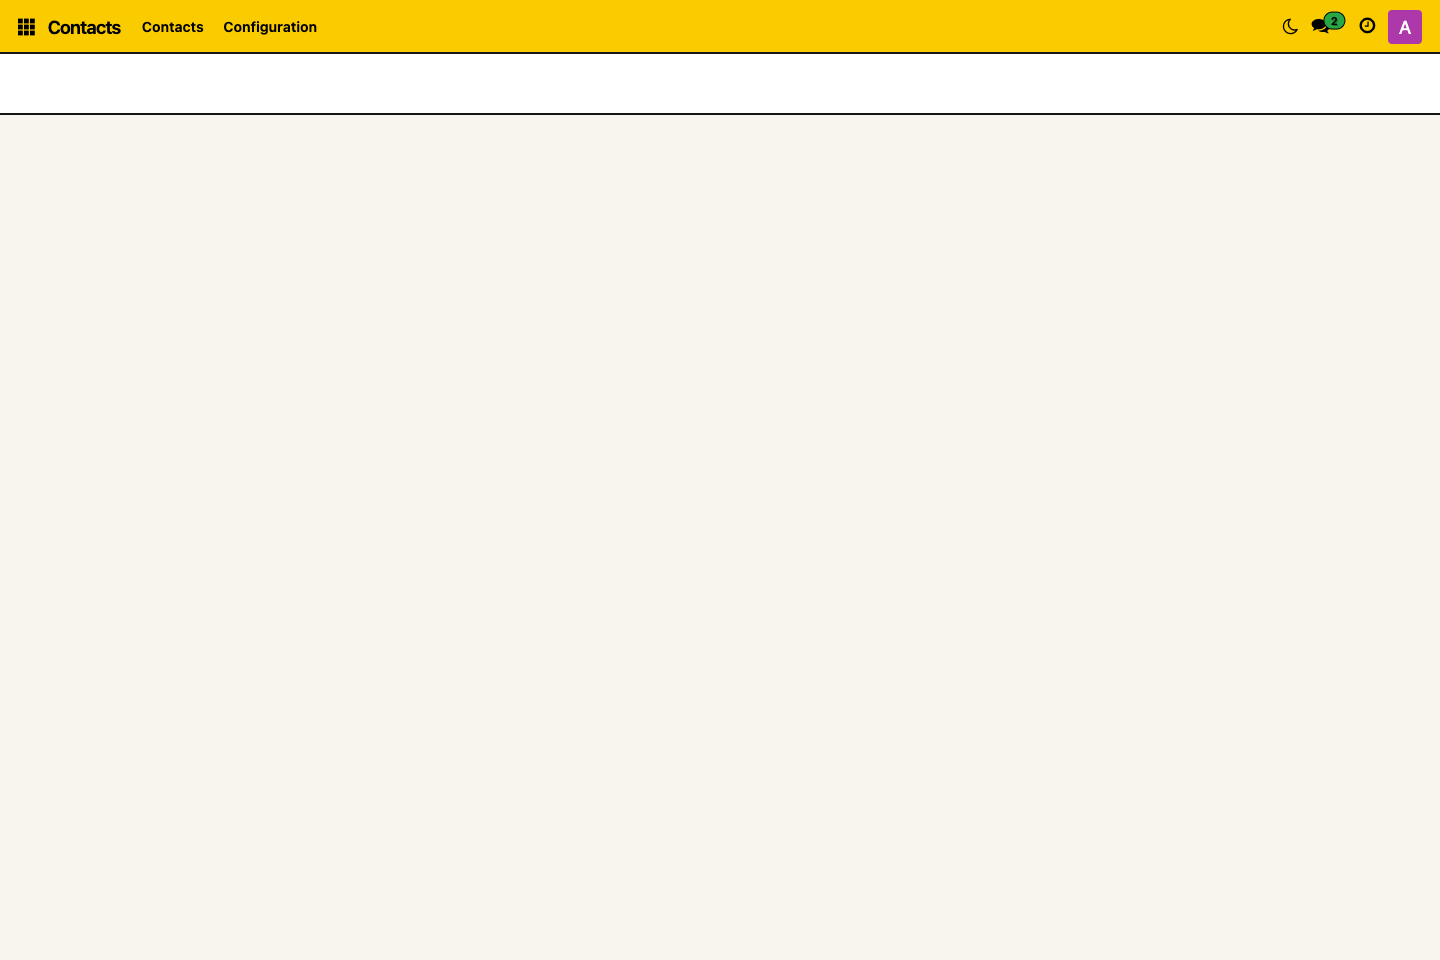
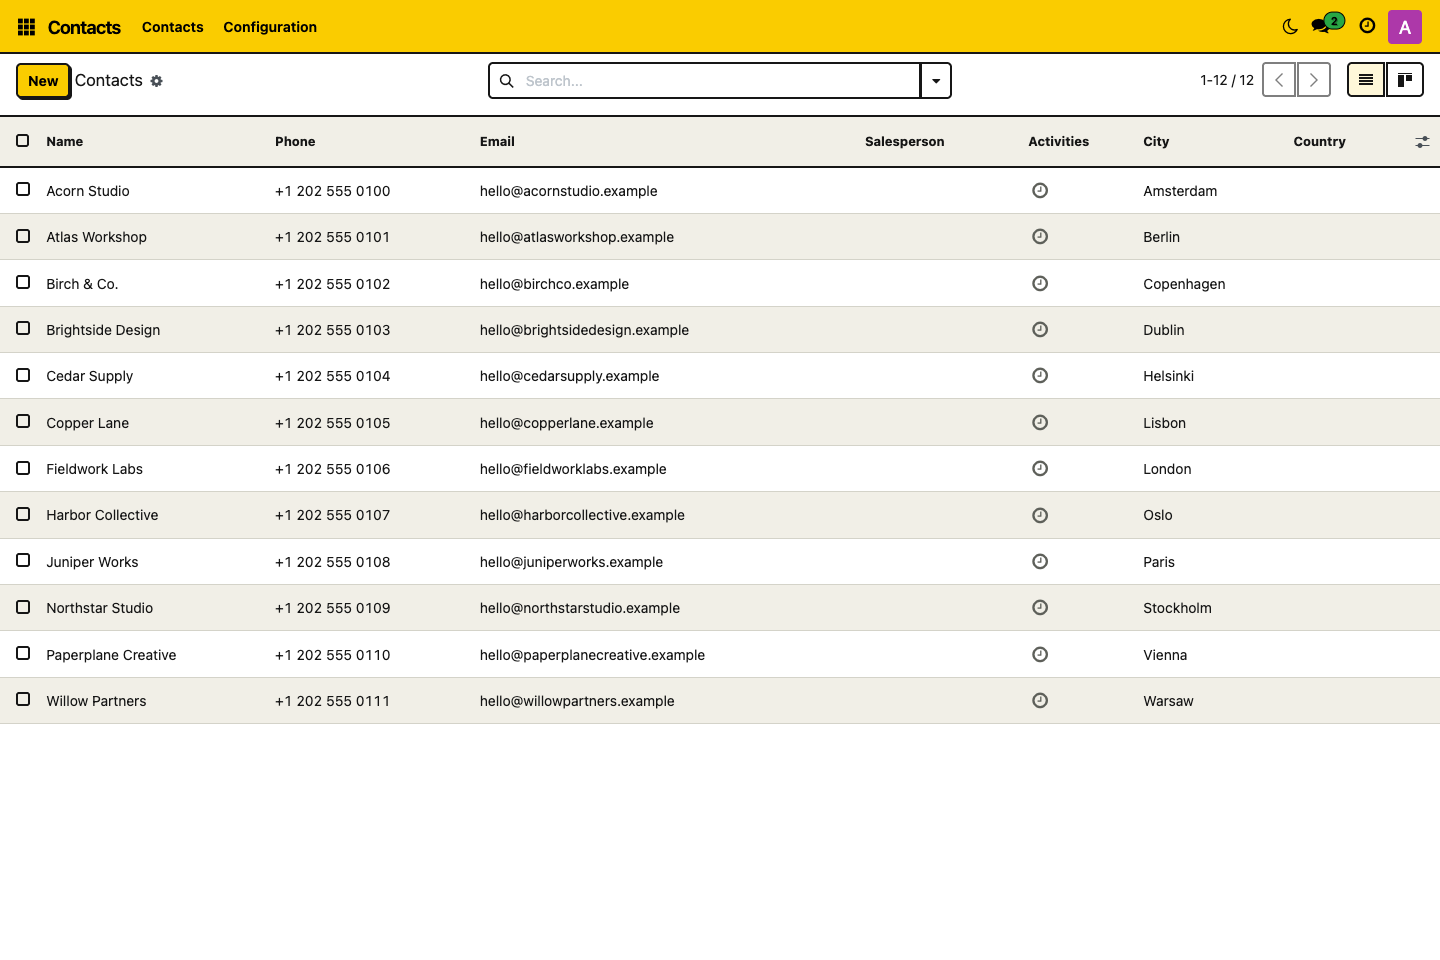
Add RivetFox branding to Odoo 17.0 marketplace artwork

diff --git a/tools/marketplace/motion.html b/tools/marketplace/motion.html
@@ -1,23 +1,25 @@
 <!doctype html>
 <html lang="en">
 <meta charset="utf-8"><title>Neo Brutal — actual screen comparisons</title>
+<link rel="stylesheet" href="../branding/brand.css">
 <style>
-*{box-sizing:border-box}body{margin:0;font-family:Arial,Helvetica,sans-serif;color:#161616;background:#f7f5ee}.canvas{position:relative;width:1120px;height:760px;border:3px solid #161616;overflow:hidden}.eyebrow{font:700 14px monospace;letter-spacing:1.5px}.title{font-size:42px;letter-spacing:-1.5px;font-weight:800;line-height:1.05;margin:13px 0}.header{position:absolute;top:26px;left:34px;right:34px;display:flex;justify-content:space-between;align-items:center}.modes{display:flex;border:2px solid #161616;box-shadow:4px 4px #161616;background:white}.modes span{font:700 14px monospace;padding:12px 19px}.modes .active{background:#facc00}.screen{border:3px solid #161616;box-shadow:8px 8px #161616;overflow:hidden;position:absolute;background:white}.screenbar{height:27px;background:#fff;border-bottom:2px solid #161616;font:700 10px monospace;padding:6px 12px;letter-spacing:.7px}.screenbody{position:relative;overflow:hidden;height:100%}.screen img{position:absolute;top:0;left:0;width:100%;display:block}.footer{position:absolute;bottom:23px;left:34px;right:34px;font:700 12px monospace;display:flex;justify-content:space-between}.daynight .screen{left:34px;top:120px;width:1044px;height:580px}.daynight .title{font-size:34px}.accent{--accent:#facc00}.accent .header{top:33px;display:block}.accent .title{font-size:45px}.accent .screen{left:330px;top:194px;width:739px;height:431px}.preset-list{position:absolute;top:210px;left:34px;display:grid;gap:9px}.preset{display:flex;align-items:center;width:247px;height:45px;border:2px solid transparent;font-size:18px;font-weight:700;gap:14px;padding:5px 10px}.preset i{display:block;width:32px;height:28px;border:2px solid #161616;background:var(--swatch)}.preset.active{border-color:#161616;background:white;box-shadow:4px 4px #161616}.preset.active:after{content:'✓';margin-left:auto}.number{position:absolute;right:43px;top:46px;font:700 15px monospace}.accent .screenbar{background:var(--accent)}
+*{box-sizing:border-box}body{margin:0;font-family:Arial,Helvetica,sans-serif;color:#161616;background:#f7f5ee}.canvas{position:relative;width:1120px;height:760px;border:3px solid #161616;overflow:hidden}.eyebrow{font:700 14px monospace;letter-spacing:1.5px}.title{font-size:42px;letter-spacing:-1.5px;font-weight:800;line-height:1.05;margin:13px 0}.header{position:absolute;top:26px;left:34px;right:34px;display:flex;justify-content:space-between;align-items:center}.modes{display:flex;border:2px solid #161616;box-shadow:4px 4px #161616;background:white}.modes span{font:700 14px monospace;padding:12px 19px}.modes .active{background:#facc00}.screen{border:3px solid #161616;box-shadow:8px 8px #161616;overflow:hidden;position:absolute;background:white}.screenbar{height:27px;background:#fff;border-bottom:2px solid #161616;font:700 10px monospace;padding:6px 12px;letter-spacing:.7px}.screenbody{position:relative;overflow:hidden;height:100%}.screen img{position:absolute;top:0;left:0;width:100%;display:block}.footer{align-items:center;position:absolute;bottom:10px;left:34px;right:34px;font:700 12px monospace;display:flex;justify-content:space-between}.daynight .screen{left:34px;top:120px;width:1044px;height:580px}.daynight .title{font-size:34px}.accent{--accent:#facc00}.accent .header{top:33px;display:block}.accent .title{font-size:45px}.accent .screen{left:330px;top:194px;width:739px;height:431px}.preset-list{position:absolute;top:210px;left:34px;display:grid;gap:9px}.preset{display:flex;align-items:center;width:247px;height:45px;border:2px solid transparent;font-size:18px;font-weight:700;gap:14px;padding:5px 10px}.preset i{display:block;width:32px;height:28px;border:2px solid #161616;background:var(--swatch)}.preset.active{border-color:#161616;background:white;box-shadow:4px 4px #161616}.preset.active:after{content:'✓';margin-left:auto}.number{position:absolute;right:43px;top:46px;font:700 15px monospace}.accent .screenbar{background:var(--accent)}
 </style>
 <div id="daynight" class="canvas daynight">
  <div class="header"><div><div class="eyebrow">PERSONAL DAY + NIGHT</div><h1 class="title">Same workspace. Your choice.</h1></div><div class="modes"><span id="day-label" class="active">DAY</span><span id="night-label">NIGHT</span></div></div>
  <div class="screen"><div class="screenbar">NEO BRUTAL / CONTACTS</div><div class="screenbody"><img id="day-screen" src="../../neobrutalism_theme/static/description/backend-list.png" alt="Contacts in day mode"><img id="night-screen" src="../../neobrutalism_theme/static/description/night-mode.png" alt="The same Contacts in night mode" style="clip-path:inset(0 100% 0 0)"></div></div>
- <div class="footer"><span>ONE PERSONAL SWITCH IN THE TOP BAR</span><span>REAL ODOO 17 COMMUNITY SCREENS</span></div>
+ <div class="footer"><div class="rf-lockup rf-mini"><img src="../branding/rivetfox-mark.svg" alt="RivetFox fox"><span class="rf-wordmark">rivetfox<span class="rf-period">.</span></span></div><span>REAL ODOO <span data-odoo-version>17</span> COMMUNITY SCREENS</span></div>
 </div>
 <div id="accents" class="canvas accent" style="display:none">
  <div class="header"><div class="eyebrow">ADMIN-MANAGED PRESETS</div><h1 class="title">One theme. Seven accents.</h1><p style="font-size:20px;margin:14px 0 0;color:#50534d">Matched highlights. Readable labels. A shared identity.</p></div><div class="number" id="counter">01 / 07</div>
  <div class="preset-list" id="presets"></div>
  <div class="screen"><div class="screenbar" id="accent-title">YELLOW / DAY MODE</div><div class="screenbody"><img id="accent-screen" src="screens/preset-yellow.png" alt="Actual Odoo accent preset"></div></div>
  <p style="position:absolute;left:333px;top:640px;font-size:16px;line-height:1.5;margin:0">Navigation, buttons and active tabs.<br>Business status colors stay independent.</p>
- <div class="footer"><span>SHARED COLORS. PERSONAL NIGHT MODE.</span><span>REAL ODOO 17 COMMUNITY SCREENS</span></div>
+ <div class="footer"><div class="rf-lockup rf-mini"><img src="../branding/rivetfox-mark.svg" alt="RivetFox fox"><span class="rf-wordmark">rivetfox<span class="rf-period">.</span></span></div><span>REAL ODOO <span data-odoo-version>17</span> COMMUNITY SCREENS</span></div>
 </div>
 <script src="title-motion.js"></script>
 <script>
+document.querySelectorAll('[data-odoo-version]').forEach(el=>el.textContent=new URLSearchParams(location.search).get('odoo')||'17');
 const presets=[['yellow','#facc00'],['blue','#5294ff'],['green','#5ad9aa'],['purple','#b59aff'],['pink','#ff91bc'],['orange','#ffb15c'],['red','#ff7474']];
 const accentMode=new URLSearchParams(location.search).get('type')==='accents';
 document.getElementById('daynight').style.display=accentMode?'none':'block';document.getElementById('accents').style.display=accentMode?'block':'none';

diff --git a/tools/cover.html b/tools/cover.html
@@ -2,10 +2,11 @@
 <html lang="en">
 <meta charset="utf-8">
 <title>Neo Brutal — animated marketplace cover</title>
+<link rel="stylesheet" href="branding/brand.css">
 <style>
 *{box-sizing:border-box}body{margin:0;font-family:Arial,Helvetica,sans-serif}
 .cover{--paper:#f7f5ee;--ink:#161616;--accent:#facc00;width:1120px;height:560px;overflow:hidden;position:relative;background:var(--paper);color:var(--ink);border:3px solid var(--ink)}
-.top{position:absolute;inset:28px 30px auto;display:flex;justify-content:space-between;align-items:center;font-size:14px;font-weight:800;letter-spacing:1px}
+.top{position:absolute;inset:26px 36px auto;display:flex;justify-content:space-between;align-items:center;font-size:14px;font-weight:800;letter-spacing:1px}
 .brand{display:flex;gap:12px;align-items:center}.mark{width:32px;height:32px;background:var(--ink);color:var(--paper);display:grid;place-items:center;font-size:22px;letter-spacing:-2px}.edition{border:2px solid var(--ink);padding:8px 12px;background:var(--paper);box-shadow:3px 3px var(--ink);font-size:13px;letter-spacing:.5px}
 .copy{position:absolute;left:38px;top:113px;z-index:2;width:420px}h1{font-size:100px;line-height:.91;letter-spacing:-7px;margin:0 0 27px;font-weight:900}h1 span{display:inline-block;background:var(--accent);color:#161616;border:3px solid #161616;box-shadow:6px 6px var(--ink);padding:0 10px 8px 4px;margin-top:10px;font-size:89px;letter-spacing:-6px}
 .tagline{font-size:26px;line-height:1.2;font-weight:700;margin:0 0 24px;letter-spacing:-.7px}.features{font:700 13px monospace;letter-spacing:.1px;display:flex;gap:8px}.features span{border:2px solid var(--ink);padding:8px 10px}
@@ -13,7 +14,7 @@
 .mode{position:absolute;right:25px;top:428px;background:var(--accent);color:#161616;border:3px solid #161616;box-shadow:5px 5px var(--ink);padding:12px 18px;font:800 20px monospace;transform:rotate(2deg);z-index:3}
 .bottom{position:absolute;bottom:25px;left:38px;right:32px;display:flex;align-items:center;justify-content:space-between}.free{font:700 12px monospace;letter-spacing:.7px}.swatches{display:flex;gap:7px}.swatches i{display:block;width:28px;height:22px;background:var(--color);border:2px solid #161616;box-shadow:2px 2px var(--ink)}
 .thumbnail{width:1000px;height:1210px}
-.thumbnail .top{inset:35px 42px auto;font-size:20px}.thumbnail .mark{width:40px;height:40px;font-size:27px}.thumbnail .edition{font-size:16px}
+.thumbnail .top{inset:34px 42px auto;font-size:20px}.thumbnail .mark{width:40px;height:40px;font-size:27px}.thumbnail .edition{font-size:16px}
 .thumbnail .copy{left:42px;top:120px;width:910px}.thumbnail h1{font-size:124px}.thumbnail h1 span{font-size:110px}
 .thumbnail .tagline{position:absolute;left:530px;top:104px;width:340px;font-size:31px}.thumbnail .features{font-size:20px;gap:12px}
 .thumbnail .stage{left:42px;right:auto;top:466px;width:900px;height:594px;transform:rotate(-1deg)}.thumbnail .chrome{height:35px;font-size:13px}.thumbnail .viewport{height:555px}
@@ -21,15 +22,16 @@
 .thumbnail .bottom{left:42px;right:42px;bottom:47px}.thumbnail .free{font-size:15px;letter-spacing:.3px}.thumbnail .swatches{gap:9px}.thumbnail .swatches i{width:34px;height:29px}
 </style>
 <div class="cover" id="cover">
- <div class="top"><div class="brand"><span class="mark">N.</span>RIVETFOX <span style="font-weight:400;letter-spacing:0">/ BACKEND THEME</span></div><div class="edition">ODOO 17 COMMUNITY</div></div>
+ <div class="top"><div class="rf-lockup"><img src="branding/rivetfox-mark.svg" alt="RivetFox fox"><span class="rf-wordmark">rivetfox<span class="rf-period">.</span></span></div><div class="edition">ODOO <span data-odoo-version>17</span> COMMUNITY</div></div>
  <div class="copy"><h1>NEO<br><span>BRUTAL.</span></h1><p class="tagline">Your Odoo.<br>With character.</p><div class="features"><span>7 ACCENTS</span><span>DAY + NIGHT</span></div></div>
- <div class="stage"><div class="chrome"><i class="dot"></i><i class="dot"></i><i class="dot"></i><b>YOUR EVERYDAY ODOO</b></div><div class="viewport"><img id="old" src="../neobrutalism_theme/static/description/backend-list.png" alt="Actual Odoo 17 Contacts list"><img id="next" class="view-new" src="../neobrutalism_theme/static/description/backend-list.png" alt="Alternate theme appearance"></div></div>
+ <div class="stage"><div class="chrome"><i class="dot"></i><i class="dot"></i><i class="dot"></i><b>YOUR EVERYDAY ODOO</b></div><div class="viewport"><img id="old" src="../neobrutalism_theme/static/description/backend-list.png" alt="Actual Odoo Contacts list"><img id="next" class="view-new" src="../neobrutalism_theme/static/description/backend-list.png" alt="Alternate theme appearance"></div></div>
  <div class="mode" id="mode">01 / DAY MODE</div>
  <div class="bottom"><div class="free">FREE + OPEN SOURCE / LGPL-3</div><div class="swatches"><i style="--color:#facc00"></i><i style="--color:#5294ff"></i><i style="--color:#5ad9aa"></i><i style="--color:#b59aff"></i><i style="--color:#ff91bc"></i><i style="--color:#ffb15c"></i><i style="--color:#ff7474"></i></div></div>
 </div>
 <script src="marketplace/title-motion.js"></script>
 <script>
 document.getElementById('cover').classList.toggle('thumbnail',new URLSearchParams(location.search).get('format')==='thumbnail');
+document.querySelectorAll('[data-odoo-version]').forEach(el=>el.textContent=new URLSearchParams(location.search).get('odoo')||'17');
 const scenes=[
  {src:'../neobrutalism_theme/static/description/backend-list.png',label:'01 / DAY MODE',paper:'#f7f5ee',ink:'#161616',accent:'#facc00'},
  {src:'../neobrutalism_theme/static/description/night-mode.png',label:'02 / NIGHT MODE',paper:'#202322',ink:'#f7f5ee',accent:'#facc00'},

diff --git a/tools/branding/brand.css b/tools/branding/brand.css
@@ -1,0 +1,9 @@
+/* Publisher identity shared by all RivetFox marketplace compositions. */
+@font-face{font-family:"RivetFox Brand";font-style:normal;font-weight:300 700;font-display:block;src:url("space-grotesk-latin.woff2") format("woff2")}
+.rf-lockup{--rf-logo:42px;--rf-type:30px;display:inline-flex;align-items:center;gap:9px;padding:7px 15px 7px 8px;border:1px solid #25252020;border-radius:13px;background:#fff8ed;color:#252520;line-height:1;white-space:nowrap}
+.rf-lockup img{display:block;flex:none;width:var(--rf-logo);height:var(--rf-logo)}
+.rf-wordmark{font-family:"RivetFox Brand",Arial,sans-serif;font-weight:700;font-size:var(--rf-type);letter-spacing:-1.6px}
+.rf-period{color:#da542a}
+.thumbnail .rf-lockup,.portrait .rf-lockup{--rf-logo:60px;--rf-type:42px;gap:12px;padding:8px 21px 8px 10px;border-radius:17px}
+.rf-mini{--rf-logo:28px;--rf-type:21px;padding:4px 10px 4px 5px;gap:6px;border-radius:10px}
+.rf-mini .rf-wordmark{letter-spacing:-1px}

diff --git a/neobrutalism_theme/__manifest__.py b/neobrutalism_theme/__manifest__.py
@@ -1,7 +1,7 @@
 {
     "name": "Neo Brutal Backend Theme",
     "summary": "Odoo 17 Community backend theme with dark mode and seven accent colors",
-    "version": "17.0.1.0.2",
+    "version": "17.0.1.0.3",
     "category": "Themes/Backend",
     "author": "RivetFox",
     "website": "https://rivetfox.pro",

diff --git a/PUBLISHING.md b/PUBLISHING.md
@@ -10,10 +10,10 @@ Use these repository URLs in the publisher account's [Submit your Apps and Theme
 
 | Odoo version | Git branch | Repository registration URL |
 | --- | --- | --- |
-| 16 | `16.0` | `ssh://git@github.com/Welgum/odoo-neobrutalism-theme#16.0` |
-| 17 | `17.0` | `ssh://git@github.com/Welgum/odoo-neobrutalism-theme#17.0` |
-| 18 | `18.0` | `ssh://git@github.com/Welgum/odoo-neobrutalism-theme#18.0` |
-| 19 | `19.0` | `ssh://git@github.com/Welgum/odoo-neobrutalism-theme#19.0` |
+| 16 | `16.0` | `ssh://git@github.com/Welgum/odoo-neobrutalism-theme.git#16.0` |
+| 17 | `17.0` | `ssh://git@github.com/Welgum/odoo-neobrutalism-theme.git#17.0` |
+| 18 | `18.0` | `ssh://git@github.com/Welgum/odoo-neobrutalism-theme.git#18.0` |
+| 19 | `19.0` | `ssh://git@github.com/Welgum/odoo-neobrutalism-theme.git#19.0` |
 
 The SSH URL plus `#branch` format follows the [Odoo Apps FAQ](https://apps.odoo.com/apps/faq). The repository is public. If it becomes private, authorize Odoo's scanner as described in the current FAQ before rescanning. `main` follows Odoo 19; use the four version branches for publication.
 
@@ -78,3 +78,11 @@ Scenes play at three times the original speed, rendered at 30 fps with a subtle 
 For updates, increase the version on the applicable branch, rerun validation, commit and push the branch, then rescan it in Odoo Apps. A local ZIP does not register or publish a marketplace listing.
 
 Official references checked for this preparation: [Vendor guidelines](https://apps.odoo.com/apps/vendor-guidelines), [Odoo Apps FAQ](https://apps.odoo.com/apps/faq), and [repository submission](https://apps.odoo.com/apps/upload).
+
+## Shared RivetFox identity — 2026-09-22
+
+`tools/branding/` contains the publisher’s website fox mark, a shared wordmark treatment and the locally bundled Space Grotesk font with its SIL OFL notice. These are renderer inputs only. All four promotional GIFs bake in the publisher identity; the listing stays static and local-only. Backend styles and theme-specific app icons are unchanged.
+
+Use the checkout’s own source screenshots. `render_marketplace.cjs` passes the manifest’s Odoo version to every composition; do not relabel newer-version screenshots for an older branch. Run `node tools/check_marketplace.cjs` after rendering and building to decode every GIF frame, verify dimensions/timing, exercise scene/loop rendering, check brand/font loading without network requests and inspect both preview widths.
+
+After pushing this artwork release, rescan each registered version branch in Odoo Apps to refresh the marketplace assets. A Git push alone does not confirm that the marketplace has imported the new images.

diff --git a/neobrutalism_theme/VALIDATION.md b/neobrutalism_theme/VALIDATION.md
@@ -1,4 +1,18 @@
-# Validation — 17.0.1.0.2
+# Validation — 17.0.1.0.3
+
+## RivetFox marketplace artwork — 2026-09-22
+
+This release updates promotional assets, rendering tools and package metadata. The runtime implementation and Odoo-version adapters are unchanged; the application tests documented below describe the preceding functional release and were not rerun for this artwork update.
+
+- All four GIFs decode completely with FFmpeg. Checked 1120 × 560 covers, 1000 × 1210 portrait cards and 1120 × 760 feature animations; encoded durations remain 3.00, 3.00, 2.67 and 4.67 seconds.
+- Playwright checks cover every scene, the composition at loop reset (allowing only tiny antialiased-edge rounding differences), correct Odoo 17 labels, and locally decoded RivetFox artwork and fonts. Renderer pages make no external requests and report no JavaScript errors.
+- Listing and thumbnail previews load all images without horizontal overflow at 1440px and 390px. The shared theme-family preview was also reviewed at catalog-card size.
+- The release builder validates manifest/image selection, static listing markup, asset paths, Python/XML syntax and ZIP integrity. Two builds of the final source produce identical SHA-256 checksums.
+- The shared fox and local render-font license are retained under `tools/branding/`. Only raster promotional assets enter the add-on; no additional runtime font, script or dependency is introduced.
+
+Visual review found that the old `backend-list.png` was an incomplete capture. It is now a byte-for-byte copy of this Odoo 17 branch’s existing, complete `tools/marketplace/screens/preset-yellow.png`; no screenshot from another Odoo version is substituted. Cover, portrait and day/night assets were regenerated. The capture helper now waits for list rows again after mode changes.
+
+Reproduce with `node tools/render_marketplace.cjs`, `python3 tools/build_release.py`, then `node tools/check_marketplace.cjs`. Logs and review PNGs are under ignored `dist/`. These checks validate the repository artwork. The registered Odoo Apps branch must be rescanned after the Git push; marketplace scan and publication status are separate from local validation.
 
 ## Theme-card thumbnail fix — 2026-09-21
 

diff --git a/neobrutalism_theme/README.md b/neobrutalism_theme/README.md
@@ -6,7 +6,7 @@ Customize Odoo lists, forms, kanban boards and navigation, with dark styles for 
 
 **Repository:** [odoo-neobrutalism-theme](https://github.com/Welgum/odoo-neobrutalism-theme) · **Author:** [RivetFox](https://rivetfox.pro) · **License:** [LGPL-3.0-or-later](LICENSE)
 
-**Version:** `17.0.1.0.2` · **Odoo module:** `neobrutalism_theme` · **Dependencies:** `web`, `base_setup`.
+**Version:** `17.0.1.0.3` · **Odoo module:** `neobrutalism_theme` · **Dependencies:** `web`, `base_setup`.
 
 [Features](#odoo-backend-theme-features) · [Screenshots](#odoo-theme-screenshots) · [Installation](#install-the-odoo-theme-with-docker-or-on-a-vps) · [Colors and dark mode](#customize-odoo-theme-colors-and-dark-mode) · [FAQ](#frequently-asked-questions-and-troubleshooting)
 
@@ -67,7 +67,7 @@ The names and paths below are examples. Use your existing Compose project and Od
    ```bash
    cd /path/to/your/compose-project
    mkdir -p addons
-   unzip /path/to/neobrutalism_theme-17.0.1.0.2.zip -d addons
+   unzip /path/to/neobrutalism_theme-17.0.1.0.3.zip -d addons
    ```
 
 2. If your deployment has no custom add-ons mount, **add** this entry to its Odoo service's existing `volumes` list. Preserve its other mounts:

diff --git a/README.md b/README.md
@@ -63,3 +63,9 @@ The builder validates the manifest, description, asset paths and images, then wr
 Developed by **[RivetFox](https://rivetfox.pro)**. Source: [Welgum/odoo-neobrutalism-theme](https://github.com/Welgum/odoo-neobrutalism-theme).
 
 Licensed under **[LGPL-3.0-or-later](LICENSE)**. The visual design is inspired by [ekmas/neobrutalism-components](https://github.com/ekmas/neobrutalism-components); its MIT attribution is preserved in [THIRD_PARTY_NOTICES.md](THIRD_PARTY_NOTICES.md).
+
+## RivetFox marketplace artwork
+
+The covers, portrait catalog thumbnails and feature animations share RivetFox’s orange fox and lowercase wordmark. Source artwork and licensed local render fonts live in `tools/branding/`; the Odoo interface does not load them. See `tools/branding/README.md` for provenance.
+
+Regenerate with `node tools/render_marketplace.cjs`, build with `python3 tools/build_release.py`, then validate all scenes and encoded animations with `node tools/check_marketplace.cjs` (Playwright, Chrome and FFmpeg required). The renderer reads the Odoo version from the manifest and uses that checkout’s own real screenshots.

diff --git a/tools/branding/README.md b/tools/branding/README.md
@@ -1,0 +1,7 @@
+# RivetFox marketplace identity
+
+The fox artwork is the header mark from https://rivetfox.pro/, retrieved on 2026-09-22 and reused for the publisher’s own theme artwork at their request. The SVG geometry and orange/cream colors are preserved; its ink is fixed to the site’s `#252520` for predictable rendering. The lowercase wordmark and orange period follow the site.
+
+`space-grotesk-latin.woff2` is the same Space Grotesk Latin variable font served by that site. Its SIL Open Font License is retained in `OFL-Space-Grotesk.txt`; source: https://github.com/google/fonts/tree/main/ofl/spacegrotesk.
+
+These files are local, reproducible inputs to the promotional renderers only. They are not loaded by Odoo or embedded as executable content in marketplace HTML. Rendered GIFs/PNGs carry the publisher mark; the app icons remain theme-specific. Keep this directory identical in both theme repositories.

diff --git a/neobrutalism_theme/CHANGELOG.md b/neobrutalism_theme/CHANGELOG.md
@@ -1,5 +1,13 @@
 # Changelog
 
+## 17.0.1.0.3 — 2026-09-22
+
+- Replace the incomplete light Contacts screenshot with this branch’s existing complete yellow-preset capture.
+
+- Add the RivetFox website fox and wordmark consistently to marketplace covers, portrait thumbnails and feature GIFs.
+- Keep local, licensed brand assets with the reproducible renderers; derive version badges from the manifest.
+- Preserve each Odoo version’s real source screenshots and the unique animated theme-card image selector.
+
 ## 17.0.1.0.2 — 2026-09-21
 
 - Fix the Odoo Apps theme-card image selector: use the animated `theme_screenshot.gif` instead of the static Contacts screenshot.

diff --git a/THIRD_PARTY_NOTICES.md b/THIRD_PARTY_NOTICES.md
@@ -27,3 +27,7 @@ LIABILITY, WHETHER IN AN ACTION OF CONTRACT, TORT OR OTHERWISE, ARISING FROM,
 OUT OF OR IN CONNECTION WITH THE SOFTWARE OR THE USE OR OTHER DEALINGS IN THE
 SOFTWARE.
 ```
+
+## Marketplace publisher artwork and render font
+
+The fox mark and wordmark treatment come from the publisher’s own [RivetFox website](https://rivetfox.pro/) and were added at the publisher’s request. The source is retained under `tools/branding/`. Space Grotesk is used only to rasterize promotional artwork; its SIL Open Font License is included at `tools/branding/OFL-Space-Grotesk.txt`. Neither the font nor a new font request is added to Odoo runtime assets.
